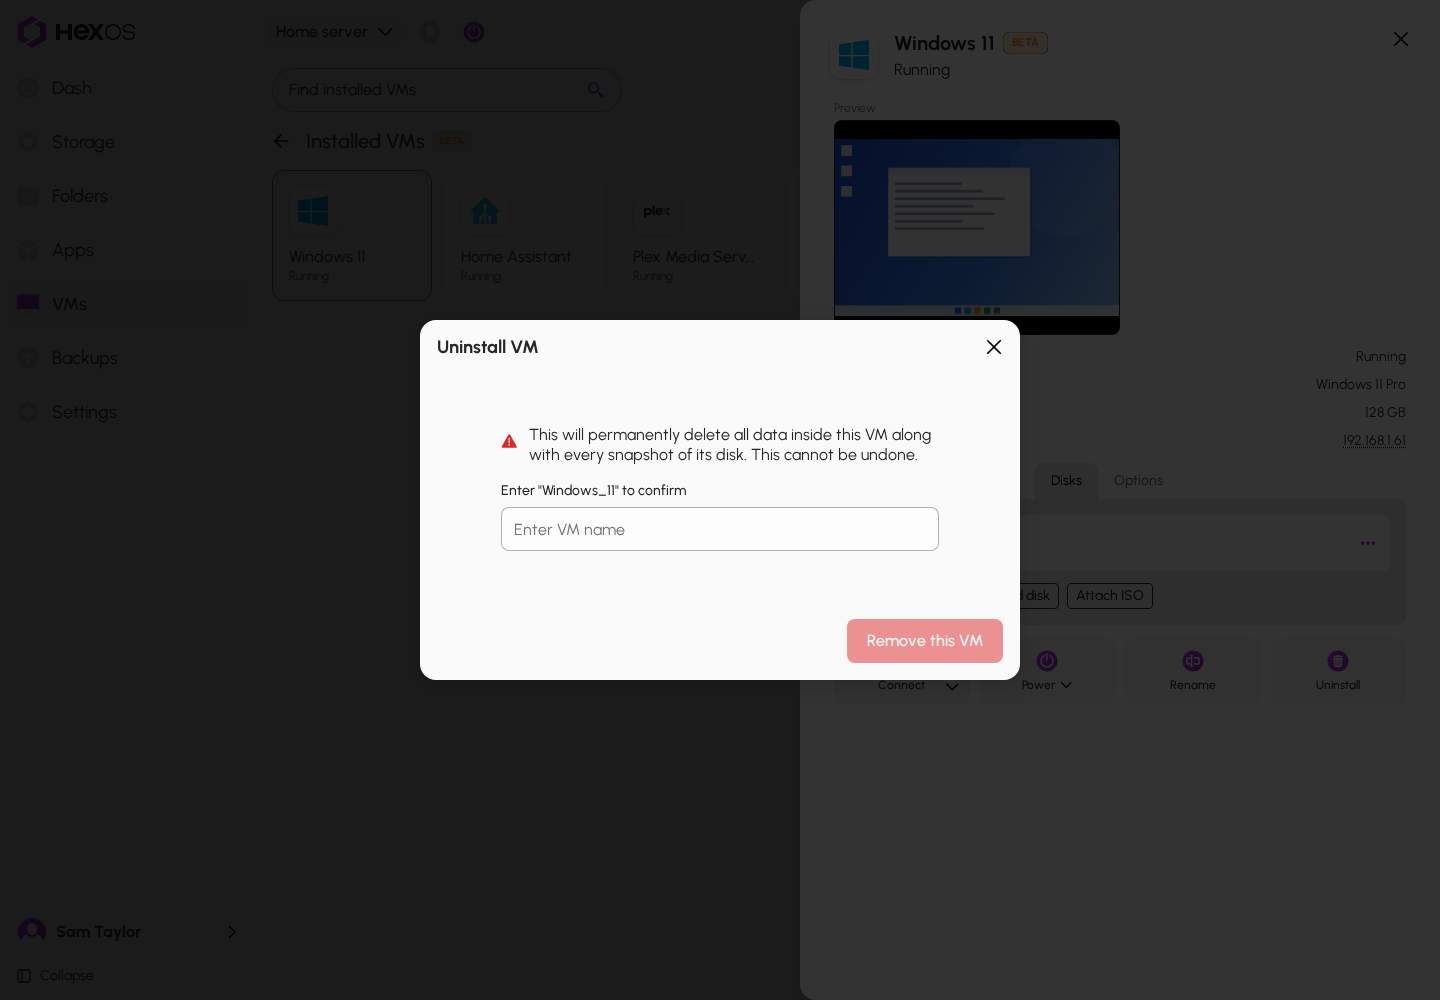
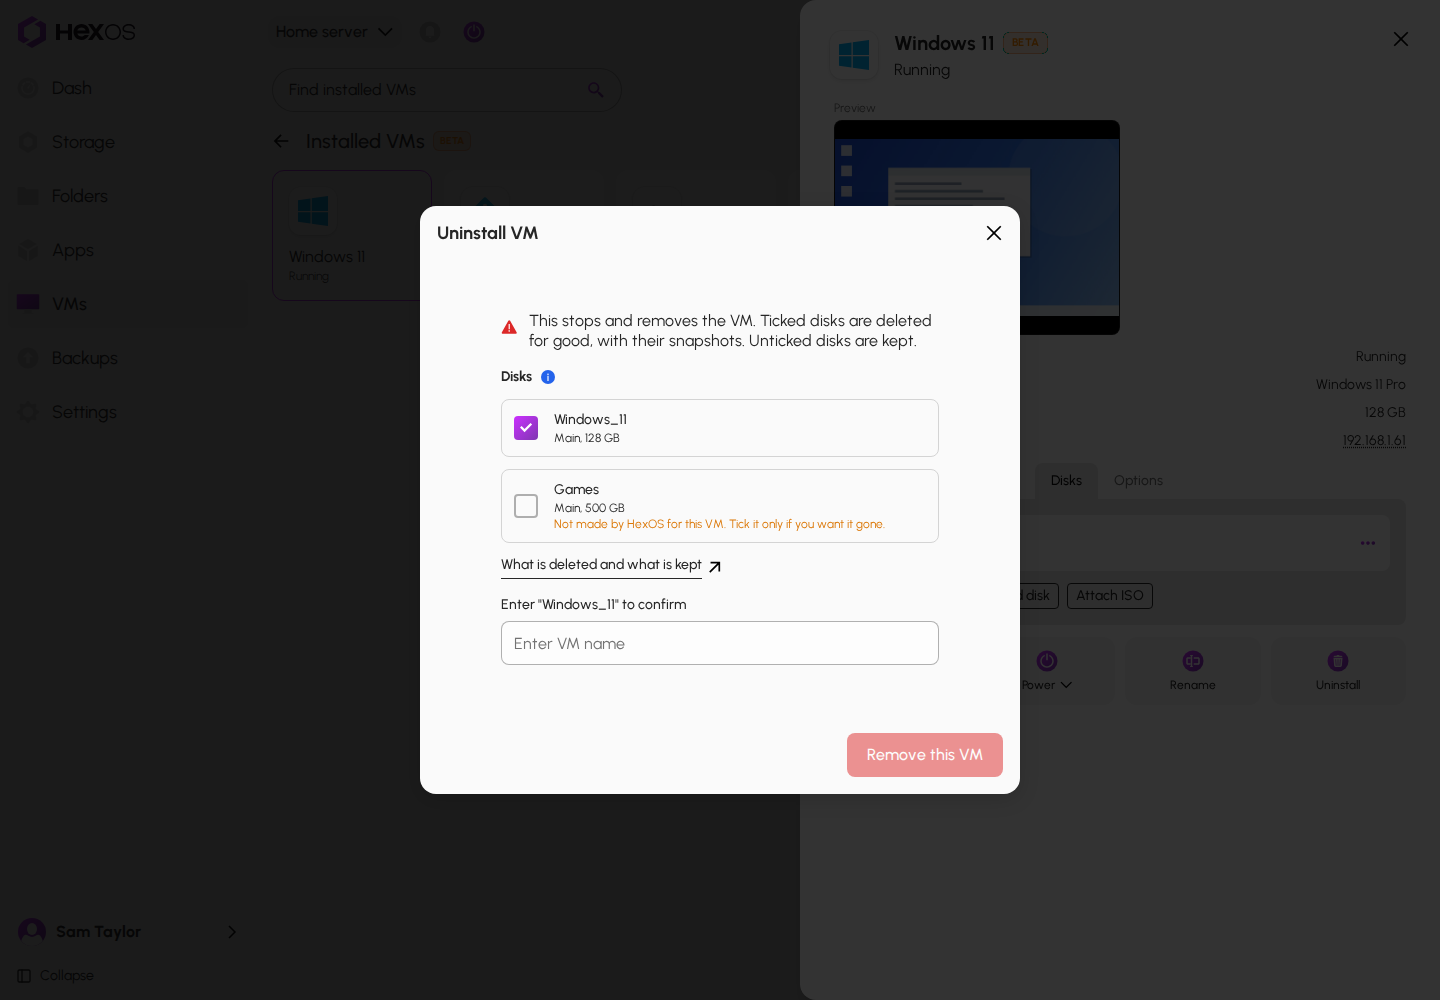
docs: Screenshots of the new Uninstall and Cancel setup dialogs, one for each Cancel setup case
The Uninstall and Cancel setup screenshots are retaken from the new build: the disk list, the typed name, and the new buttons. Cancel setup gets a second screenshot for the case before the VM exists, which asks once. The page also says what happens if the VM is made while that dialog is open, and the Plex page says its disk is deleted only if it is ticked.

Changed region(s): [[0.2812, 0.186, 0.7188, 0.806]]

diff --git a/features/vms.md b/features/vms.md
@@ -247,22 +247,29 @@ While automated setup runs, the console and power controls are locked so a stray
 
 Windows setup starts by itself. In the rare case that it cannot, HexOS shows **Action needed** and asks you to open the VM's screen and press a key at the "Press any key to boot from CD or DVD" prompt.
 
-Sometimes setup stops but keeps the VM and its disks. For example, when the system inside never reported that it was ready, HexOS says **The VM and its disks were kept** and explains why. Once the VM exists, HexOS never removes it or its disks by itself: if setup fails after that, HexOS says **Setup stopped. Your VM and disks were kept.** You can open the VM to check it, or uninstall it and try again.
+Sometimes setup stops but keeps the VM and its disks. For example, when the system inside never reported that it was ready, HexOS says **The VM and its disks were kept** and explains why. Once the VM exists, HexOS never removes it or its disks by itself. If setup fails after that, HexOS keeps them and says so, for example **Setup stopped. Your VM and disks were kept.** You can open the VM to check it, or uninstall it and try again.
 
 ### Cancel setup
 
 **Cancel setup** is on the system's page in the catalog while it installs. What it does depends on whether the VM exists yet:
 
-- **Before the VM exists**, it asks once. Click **Yes, cancel setup**. Setup stops and what it made so far is removed.
-- **Once the VM exists**, it removes the VM. The dialog lists the VM's disks the same way **Uninstall** does, and asks you to type the VM's name. Click **Cancel setup and remove VM**. Ticked disks are deleted for good, and unticked disks are kept. See [Uninstall](/features/vms#uninstall).
-
-Either way, installer files HexOS downloaded are kept, so a second attempt is faster.
+**Before the VM exists**, it asks once. Click **Yes, cancel setup**. Setup stops and what it made so far is removed. If HexOS made the VM while the dialog was open, it says **The VM already exists, so cancelling setup removes it. Reload the page and confirm with the VM's name.** Reload the page and click **Cancel setup** again.
 
 <details>
-<summary> Cancel setup </summary>
+<summary> Cancel setup before the VM exists </summary>
+
+![cancel-setup-before-vm.png](/features/vms/images/cancel-setup-before-vm.png){.medium .framed}
+</details>
+
+**Once the VM exists**, it removes the VM. The dialog lists the VM's disks the same way **Uninstall** does, and asks you to type the VM's name. Click **Cancel setup and remove VM**. Ticked disks are deleted for good, and unticked disks are kept. See [Uninstall](/features/vms#uninstall).
+
+<details>
+<summary> Cancel setup once the VM exists </summary>
 
 ![cancel-setup-confirm.png](/features/vms/images/cancel-setup-confirm.png){.medium .framed}
 </details>
+
+Either way, installer files HexOS downloaded are kept, so a second attempt is faster.
 
 A custom VM started from a download link has no **Cancel setup**. Wait for it to finish or fail, then uninstall it.
 

diff --git a/features/vms/plex-media-server.md b/features/vms/plex-media-server.md
@@ -74,7 +74,7 @@ When a folder comes back after an outage, HexOS asks Plex to scan that library a
 
 ## Remove it
 
-**Uninstall** removes the VM, the **plexvm** account, and the Plex token HexOS kept. Its disk is deleted if you leave it ticked. Your media folders and the files in them are not touched. See [Uninstall](/features/vms#uninstall).
+**Uninstall** removes the VM, the **plexvm** account, and the Plex token HexOS kept. Its disk is deleted only if it is ticked. Your media folders and the files in them are not touched. See [Uninstall](/features/vms#uninstall).
 
 ## Known issues
 
